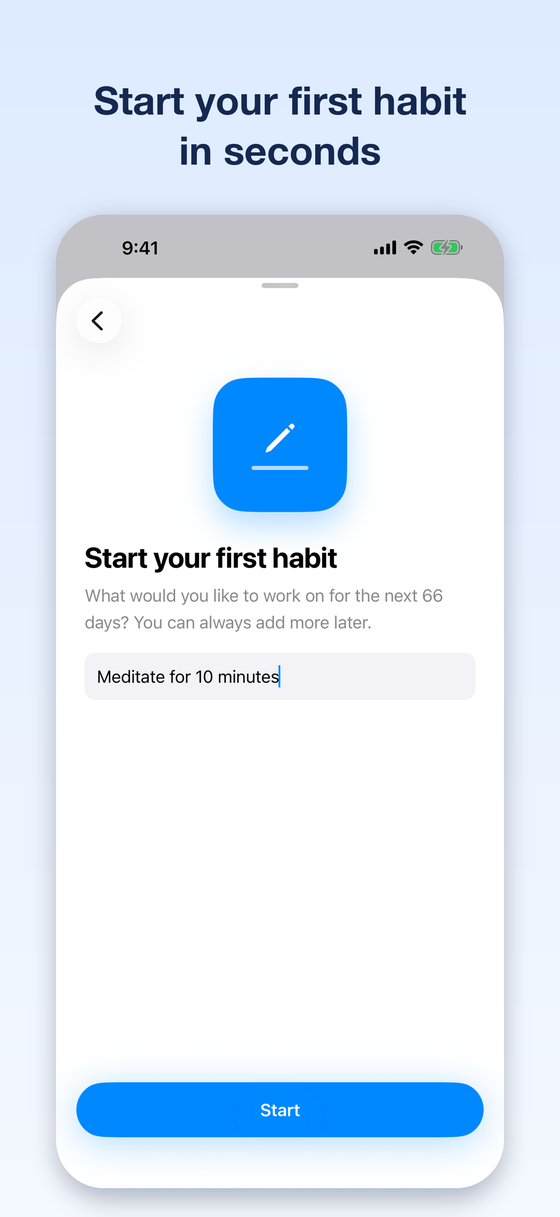
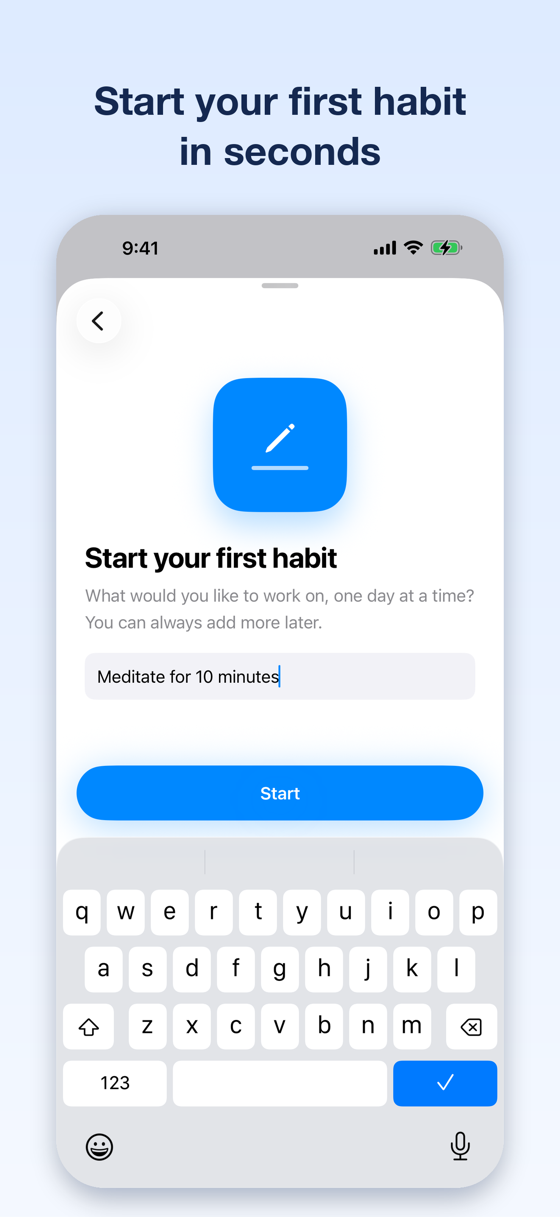
feat(goodhabits): show the 3.1.0 screenshots
Replace the 3.0.2 store images (day counters, orange grace day) with the
3.1.0 ones, scaled to 560x1217: habit list and widget with scores, the
catch-up frame (renamed from grace-day), the 95 % milestone sheet and
the new onboarding copy. Alt texts follow the new content.

diff --git a/de/goodhabits.html b/de/goodhabits.html
@@ -73,9 +73,9 @@
 						</div>
 						<div class="col-lg-7">
 							<div class="project-screenshots">
-								<img src="../images/2026-good-habits-habit-list-de.png" alt="GoodHabits-Liste mit täglichem Fortschritt" class="screenshot">
-								<img src="../images/2026-good-habits-widget-de.png" alt="Interaktives GoodHabits-Widget auf dem Home-Bildschirm" class="screenshot">
-								<img src="../images/2026-good-habits-grace-day-de.png" alt="GoodHabits-Gnadenfrist zum Nachtragen verpasster Tage" class="screenshot">
+								<img src="../images/2026-good-habits-habit-list-de.png" alt="GoodHabits-Liste mit einem Gewohnheits-Score pro Gewohnheit" class="screenshot">
+								<img src="../images/2026-good-habits-widget-de.png" alt="Interaktives GoodHabits-Widget auf dem Home-Bildschirm mit Gewohnheits-Scores" class="screenshot">
+								<img src="../images/2026-good-habits-catch-up-de.png" alt="GoodHabits-Woche mit einem verpassten Tag, der sich noch nachtragen lässt" class="screenshot">
 							</div>
 						</div>
 					</div>
@@ -85,7 +85,7 @@
 					<div class="row align-items-center g-4">
 						<div class="col-lg-7 order-lg-1">
 							<div class="project-screenshots">
-								<img src="../images/2026-good-habits-milestone-de.png" alt="GoodHabits-Meilenstein an Tag 66" class="screenshot">
+								<img src="../images/2026-good-habits-milestone-de.png" alt="GoodHabits-Meilenstein bei einem Gewohnheits-Score von 95 %" class="screenshot">
 								<img src="../images/2026-good-habits-start-de.png" alt="Neue Gewohnheit in GoodHabits anlegen" class="screenshot">
 							</div>
 						</div>

diff --git a/goodhabits.html b/goodhabits.html
@@ -73,9 +73,9 @@
 						</div>
 						<div class="col-lg-7">
 							<div class="project-screenshots">
-								<img src="images/2026-good-habits-habit-list-en.png" alt="GoodHabits habit list with daily progress" class="screenshot">
-								<img src="images/2026-good-habits-widget-en.png" alt="GoodHabits interactive home screen widget" class="screenshot">
-								<img src="images/2026-good-habits-grace-day-en.png" alt="GoodHabits grace day for missed logs" class="screenshot">
+								<img src="images/2026-good-habits-habit-list-en.png" alt="GoodHabits habit list with a habit score for each habit" class="screenshot">
+								<img src="images/2026-good-habits-widget-en.png" alt="GoodHabits interactive Home Screen widget with habit scores" class="screenshot">
+								<img src="images/2026-good-habits-catch-up-en.png" alt="GoodHabits week with a missed day that can still be logged" class="screenshot">
 							</div>
 						</div>
 					</div>
@@ -85,7 +85,7 @@
 					<div class="row align-items-center g-4">
 						<div class="col-lg-7 order-lg-1">
 							<div class="project-screenshots">
-								<img src="images/2026-good-habits-milestone-en.png" alt="GoodHabits milestone celebration at day 66" class="screenshot">
+								<img src="images/2026-good-habits-milestone-en.png" alt="GoodHabits milestone celebration at a habit score of 95%" class="screenshot">
 								<img src="images/2026-good-habits-start-en.png" alt="GoodHabits create a new habit" class="screenshot">
 							</div>
 						</div>
